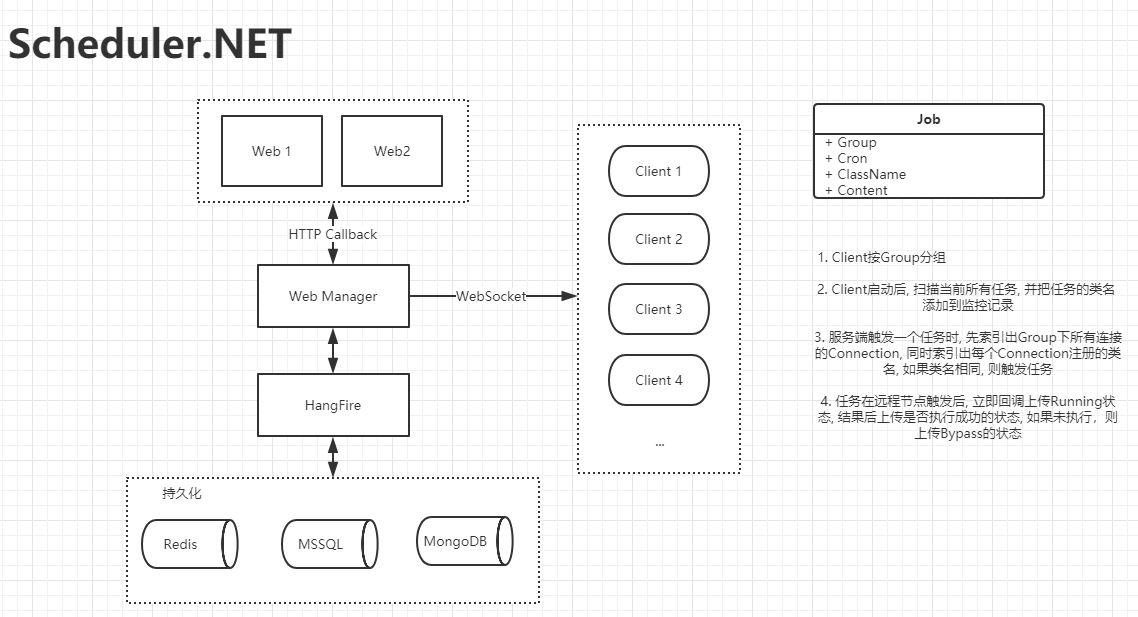
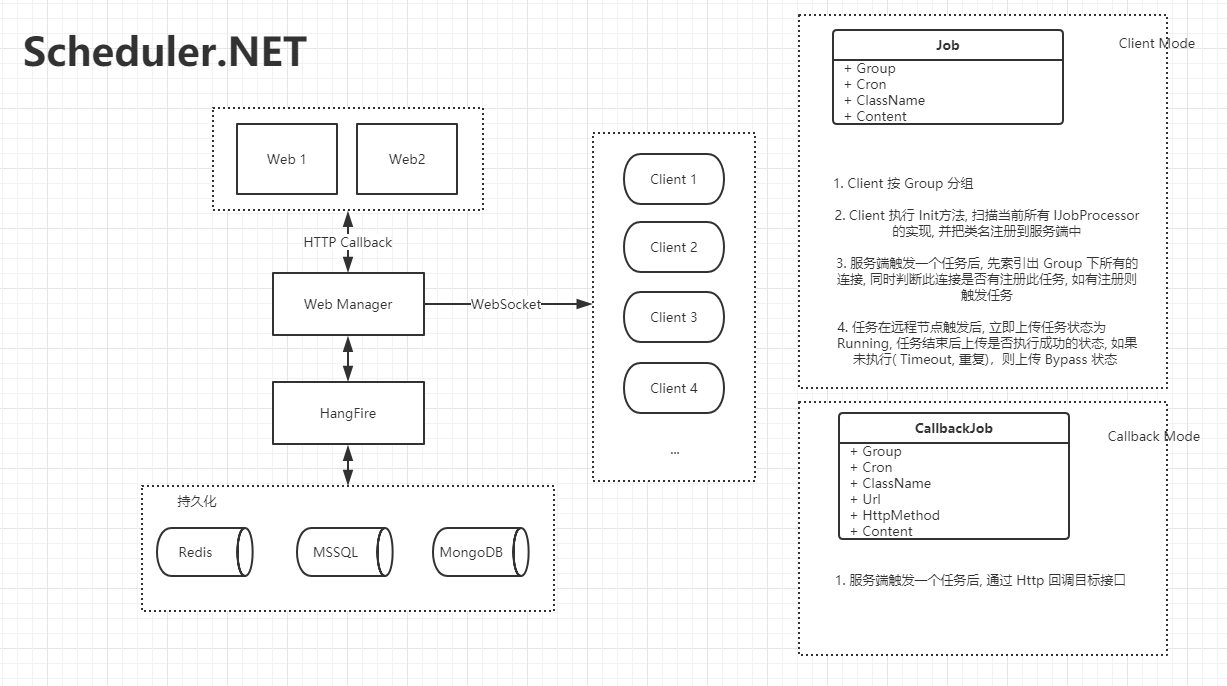
更新说明文档

diff --git a/src/Sample/Program.cs b/src/Sample/Program.cs
@@ -1,6 +1,7 @@
 using Scheduler.NET.Client;
 using Scheduler.NET.Common;
 using System;
+using System.Net.Http;
 
 namespace Sample
 {
@@ -10,6 +11,7 @@ namespace Sample
 		{
 			SchedulerNetHelper api = new SchedulerNetHelper("http://localhost:5001");
 			api.CreateJob(new Job { ClassName = typeof(ConsoleJobProcessor).FullName, Cron = "*/1 * * * *", Group = "Test", Content = "aaa" });
+			api.CreateCallbackJob(new CallbackJob { ClassName = "", Content = "", Cron = "*/1 * * * *", Group = "group1", Method = HttpMethod.Get, Url = "http://www.baidu.com" });
 			SchedulerNetClient client = new SchedulerNetClient("Test", "http://localhost:5001");
 			client.Init();
 			Console.Read();

diff --git a/README.md b/README.md
@@ -57,3 +57,12 @@ Scheduler.NET is a distributed scheduler system. It support http call back job a
 		}
 
 4. Run the console project
+
+### CallbackJob
+
+1. Create a callbackjob:
+
+			SchedulerNetHelper api = new SchedulerNetHelper("http://localhost:5000");
+			api.CreateCallbackJob(new CallbackJob { ClassName = "job1", Content = "{}", Cron = "*/1 * * * *", Group = "group1", Method = HttpMethod.Get, Url = "http://www.baidu.com" });
+
+2. Then the scheduler.net will request http://www.baidu.com every 1 minutes.
